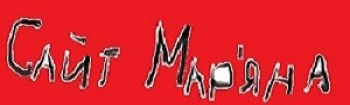
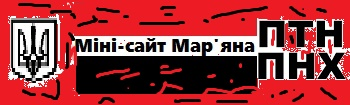
Обновлено логотип сайту
Більш у бандерівському стилі

diff --git a/style.css b/style.css
@@ -10,9 +10,9 @@ Entebody {
 { 
 background: url('back.jpg'); 
 background-repeat: no-repeat; 
-background-color : #FFF;
+background-color :red;
 margin-top:0.5em;
-border: 1px solid #222;
+border: 5px solid #222;
 } 
 #navcontainer { width: 100%; border-top: 1px solid #777;}
 
